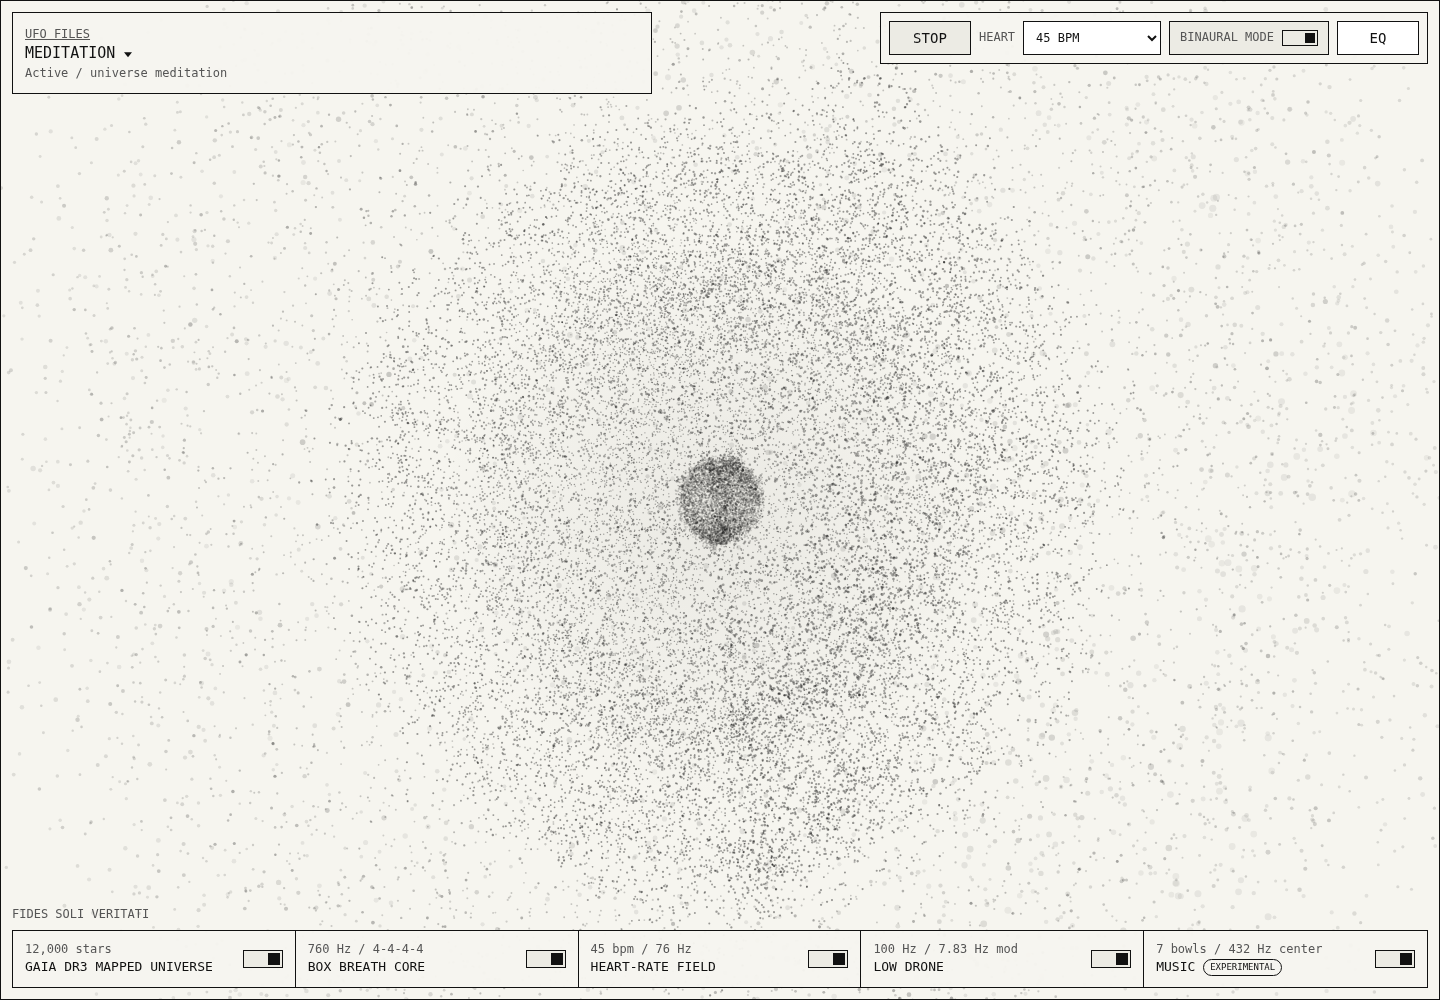
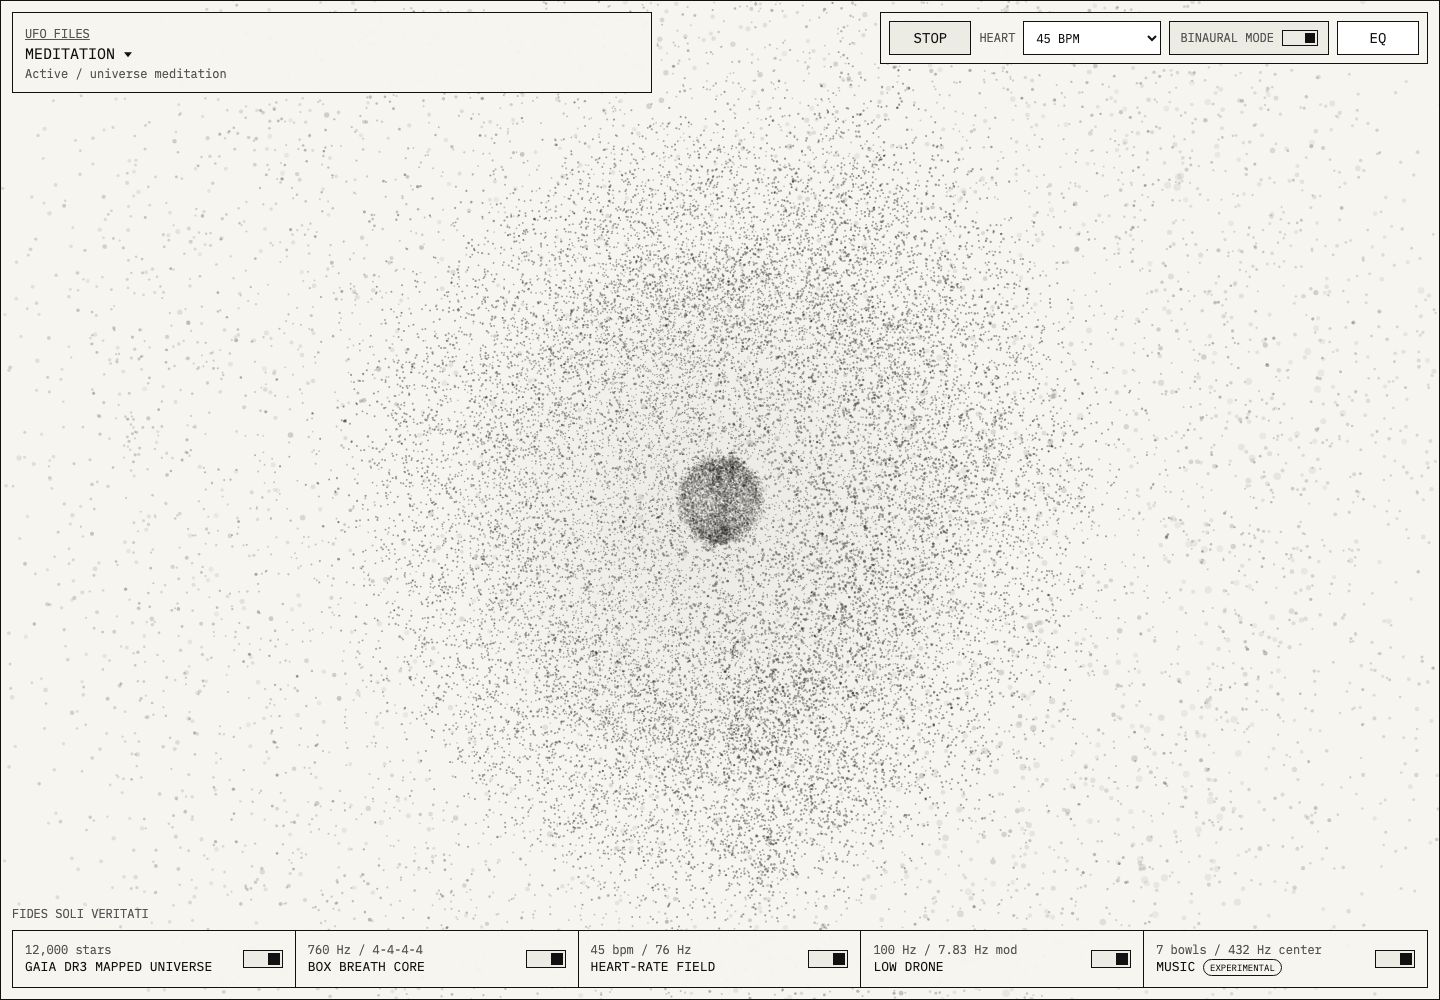
Reduce meditation breath inhale scale

diff --git a/script.js b/script.js
@@ -367,7 +367,7 @@ function drawThree(elapsed) {
   view.universe.points.scale.setScalar(state.depth);
   view.universe.material.opacity = state.running ? .92 : .72;
   updateThreeMusicLayer(view.music, MUSIC_VOLUME_SCALE, music, elapsed, active);
-  updateThreeProceduralLayer(view.breath, BEAT_VOLUME_SCALE + breath * .18, state.running ? .024 : 0, .46 + breath * .3);
+  updateThreeProceduralLayer(view.breath, BEAT_VOLUME_SCALE + breath * .12, state.running ? .024 : 0, .46 + breath * .3);
   updateThreeHeartLayer(view.beat, BEAT_VOLUME_SCALE, beat, state.running);
   updateThreeDroneLayer(view.drone, DRONE_VOLUME_SCALE, state.running ? audioElapsed(elapsed) : elapsed, state.running ? .007 : 0);
   view.renderer.render(view.scene, view.camera);
@@ -466,7 +466,7 @@ function drawCanvas(elapsed) {
   ctx.clearRect(0, 0, width, height);
   if (state.layers.universe) drawCanvasStars({ width, height, scale, rotationX, rotationY });
   if (state.layers.music) drawCanvasMusicPoints(musicPoints, MUSIC_VOLUME_SCALE, 1.06, rotationX * .82, rotationY * 1.12, .34 + music * .22, music, elapsed);
-  if (state.layers.breath) drawCanvasSpherePoints(breathPoints, BEAT_VOLUME_SCALE + breath * .18, .9, rotationX, rotationY, .28 + breath * .24, state.running ? .025 : 0);
+  if (state.layers.breath) drawCanvasSpherePoints(breathPoints, BEAT_VOLUME_SCALE + breath * .12, .9, rotationX, rotationY, .28 + breath * .24, state.running ? .025 : 0);
   if (state.layers.beat) drawCanvasSpherePoints(beatPoints, BEAT_VOLUME_SCALE * (1 + beat * .12), .74, rotationX * .9, rotationY * 1.08, .34 + beat * .44, state.running ? .006 : 0);
   if (state.layers.drone) drawCanvasDronePoints(dronePoints, DRONE_VOLUME_SCALE, .9, rotationX * 1.1, rotationY * .82, .16, state.running ? audioElapsed(elapsed) : elapsed);
 }